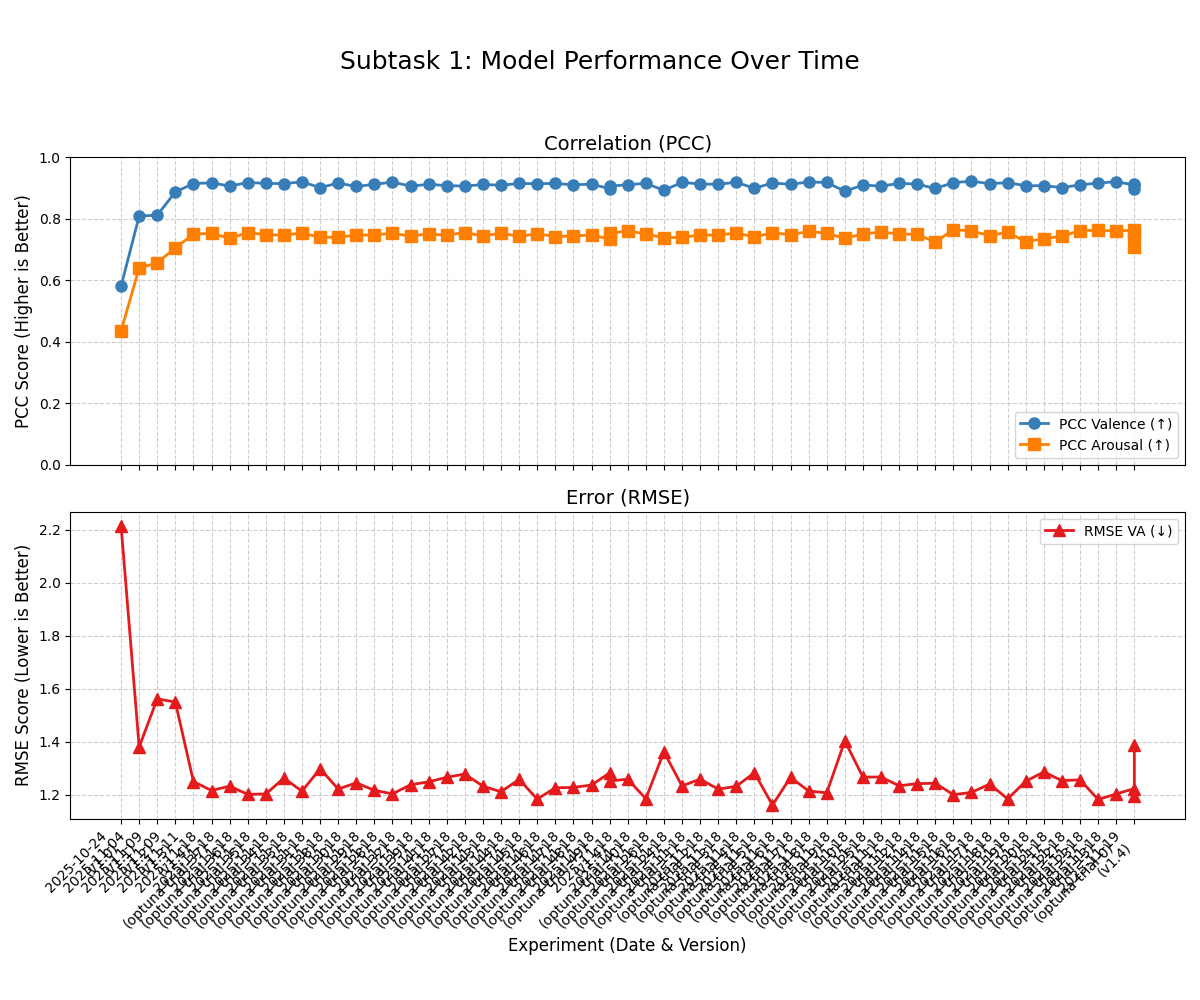
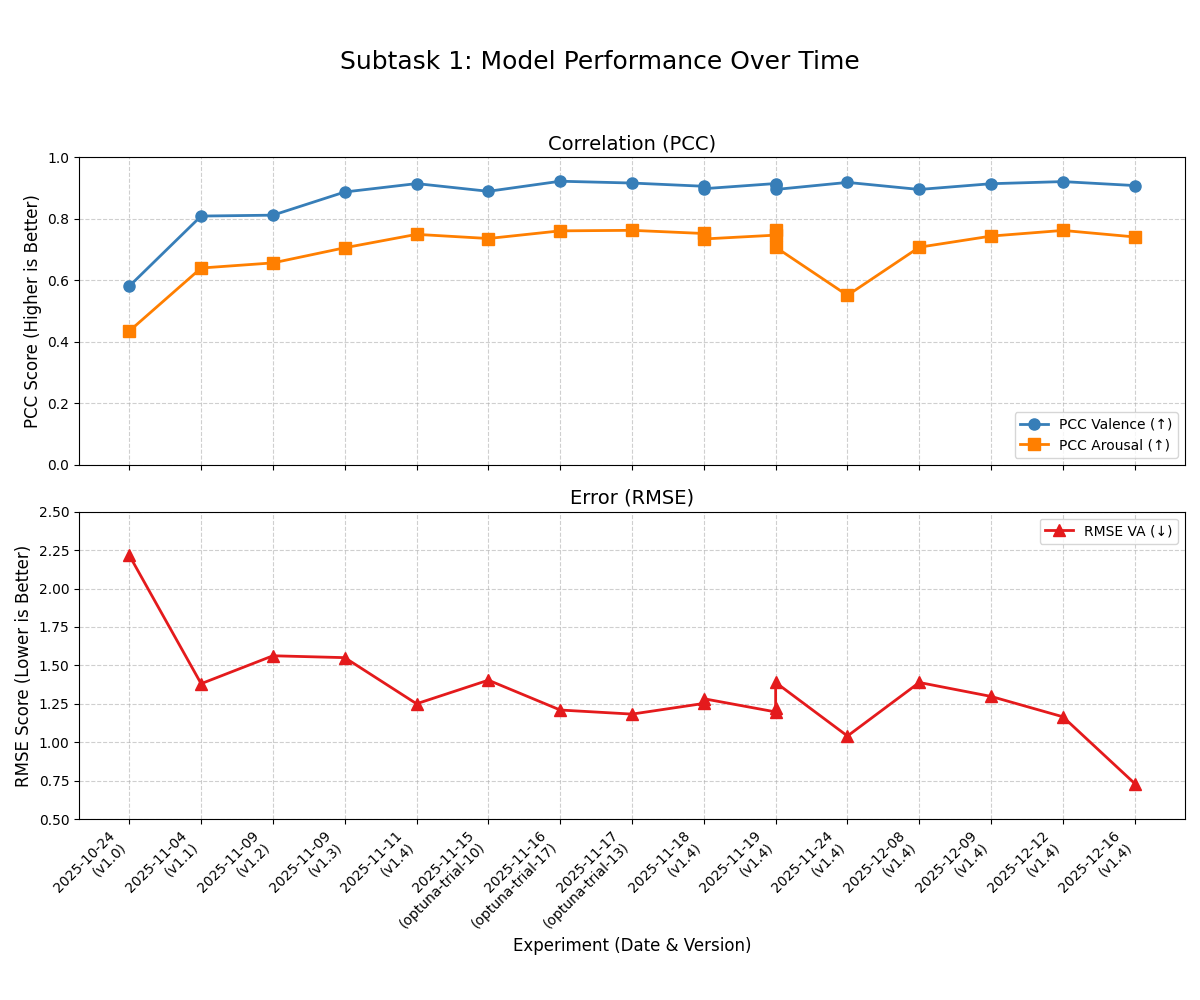
csv cleanup

diff --git a/scripts/Ensemble.py b/scripts/Ensemble.py
@@ -4,22 +4,19 @@ import numpy as np
 
 # --- CONFIGURATION ---
 PREDICTION_FILES = [
-    "predictions/subtask_1/pred_eng_laptop_1.jsonl",
-    "predictions/subtask_1/pred_eng_laptop_25.jsonl",
-    "predictions/subtask_1/pred_eng_laptop_42.jsonl",
-    "predictions/subtask_1/pred_eng_laptop_99.jsonl",
-    "predictions/subtask_1/pred_eng_laptop_123.jsonl"
+    "../outputs/subtask_1/predictions/pred_eng_laptop_1.jsonl",
+    "../outputs/subtask_1/predictions/pred_eng_laptop_42.jsonl",
+    "../outputs/subtask_1/predictions/pred_eng_laptop_100.jsonl"
 ]
 
 OUTPUT_FILE = "../outputs/subtask_1/predictions/pred_ensemble_final.jsonl"
 
 
 def load_predictions(filepath):
-    """Loads predictions from a JSONL file."""
     preds = {}
     try:
         if not os.path.exists(filepath):
-            print(f"❌ File not found: {filepath}")
+            print(f"File not found: {filepath}")
             return None
 
         with open(filepath, 'r', encoding='utf-8') as f:
@@ -29,7 +26,7 @@ def load_predictions(filepath):
         print(f"✅ Loaded {len(preds)} predictions from: {filepath}")
         return preds
     except Exception as e:
-        print(f"❌ Error reading {filepath}: {e}")
+        print(f"Error reading {filepath}: {e}")
         return None
 
 

diff --git a/src/subtask_1/config.py b/src/subtask_1/config.py
@@ -11,6 +11,7 @@ MODEL_NAME = "roberta-base"
 MODEL_VERSION_ID = "v1.4"
 
 # Training settings
+SEED = 100
 LEARNING_RATE = 1.1796630496108734e-05
 EPOCHS = 20
 BATCH_SIZE = 32
@@ -28,8 +29,10 @@ TRACK = "track_a"
 
 # Data file Path Constructor
 DATA_DIR = os.path.join(PROJECT_ROOT, DATA_ROOT, TRACK, SUBTASK, LANG)
+CSV_DIR = os.path.join(PROJECT_ROOT, "outputs/subtask_1/logs/results.csv")
 TRAIN_FILE = os.path.join(DATA_DIR, f"{LANG}_{DOMAIN}_train_alltasks.jsonl")
 PREDICT_FILE = os.path.join(DATA_DIR, f"{LANG}_{DOMAIN}_dev_{TASK}.jsonl")
+FIGURE_DIR = os.path.join(PROJECT_ROOT, "outputs/subtask_1/figures")
 
 # Output settings
 MODEL_SAVE_DIR = os.path.join("outputs", "subtask_1", "models")
@@ -39,4 +42,7 @@ PREDICTION_DIR = os.path.join("outputs", "subtask_1", "predictions")
 PREDICTION_FILE = os.path.join(PREDICTION_DIR, f"pred_{LANG}_{DOMAIN}.jsonl")
 TEST_FILE = os.path.join(PREDICTION_DIR, f"test_{LANG}_{DOMAIN}.jsonl")
 
-MODEL_SAVE_PATH = os.path.join(PROJECT_ROOT, MODEL_SAVE_DIR, SUBTASK, "best_model.pt")
+MODEL_SAVE_PATH = os.path.join(PROJECT_ROOT, MODEL_SAVE_DIR, SUBTASK, "best_model_laptop.pt")
+
+if __name__ == '__main__':
+    print(CONFIG_DIR + "\n" + PROJECT_ROOT + "\n" + DATA_DIR + "\n" + CSV_DIR)

diff --git a/scripts/vis/generate_results_plot.py b/scripts/vis/generate_results_plot.py
@@ -2,16 +2,14 @@ import pandas as pd
 import matplotlib.pyplot as plt
 import os
 
-from src.subtask_1.config import DATA_DIR, PREDICTION_DIR
-
-CSV_FILE = os.path.join(DATA_DIR, "results.csv")
-OUTPUT_FILE = os.path.join(PREDICTION_DIR, "performance_plot.png")
+from src.subtask_1.config import CSV_DIR, FIGURE_DIR
+OUTPUT_FILE = os.path.join(FIGURE_DIR, "performance_plot.png")
 
 def generate_plot():
     try:
-        data = pd.read_csv(CSV_FILE)
+        data = pd.read_csv(CSV_DIR)
     except FileNotFoundError:
-        print(f"Error: Could not find results file at {CSV_FILE}")
+        print(f"Error: Could not find results file at {CSV_DIR}")
         return
 
     data['date'] = pd.to_datetime(data['date'])
@@ -32,6 +30,7 @@ def generate_plot():
 
     ax2.plot(x_labels, data['rmse_va'], '^-', label='RMSE VA (↓)', color='#e41a1c', linewidth=2, markersize=8)
     ax2.set_ylabel('RMSE Score (Lower is Better)', fontsize=12)
+    ax2.set_ylim(0.5, 2.5)
     ax2.legend(loc='upper right', fontsize=10)
     ax2.grid(True, linestyle='--', alpha=0.6)
     ax2.set_title('Error (RMSE)', fontsize=14)

diff --git a/src/subtask_1/train_subtask1.py b/src/subtask_1/train_subtask1.py
@@ -22,7 +22,7 @@ from scripts.vis.generate_results_plot import generate_plot
 
 def main():
     version = 3
-    utils.set_seed(42)
+    utils.set_seed(config.SEED)
 
     print(f"Using model: {config.MODEL_NAME}")
     print(f"Loading tokenizer...")
@@ -43,7 +43,7 @@ def main():
     train_df = utils.jsonl_to_df(train_raw)
     predict_df = utils.jsonl_to_df(predict_raw)
 
-    train_df, dev_df = train_test_split(train_df, test_size=0.1, random_state=42)
+    train_df, dev_df = train_test_split(train_df, test_size=0.1, random_state=config.SEED)
     print(f"Data loaded: {len(train_df)} train, {len(dev_df)} dev, {len(predict_df)} predict samples.")
 
     train_dataset = VADataset(train_df, tokenizer, max_len=config.MAX_LEN, num_bins=config.NUM_BINS, sigma=config.SIGMA)

diff --git a/src/subtask_1/model.py b/src/subtask_1/model.py
@@ -4,7 +4,7 @@ from transformers import AutoModel
 from tqdm import tqdm
 
 class TransformerVARegressor(nn.Module):
-    def __init__(self, model_name: str, dropout: float = 0.1, num_bins: int = 81):
+    def __init__(self, model_name: str, num_bins: int, dropout: float = 0.1):
         super().__init__()
         self.backbone = AutoModel.from_pretrained(model_name)
         self.dropout = nn.Dropout(dropout)

diff --git a/src/subtask_2/train_subtask2_ICL.py b/src/subtask_2/train_subtask2_ICL.py
@@ -2,7 +2,7 @@
 python src/subtask_2/task2_icl_regression.py \
   --input_file /data/eng_restaurant_train_alltasks.jsonl \
   --output_file data/subtask2/preds_task2.jsonl \
-  --reg_checkpoint subtask1/best_model.pt \
+  --reg_checkpoint subtask1/best_model_laptop_42.pt \
   --gen_model google/flan-t5-large \
   --reg_model_name bert-base-multilingual-cased \
   --device cuda \

diff --git a/legacy/train_subtask1_alt.py b/legacy/train_subtask1_alt.py
@@ -118,7 +118,7 @@ def main():
 
     best_val_loss = float("inf")
     epochs_no_improve = 0
-    checkpoint_path = os.path.join(args.output_dir, "best_model.pt")
+    checkpoint_path = os.path.join(args.output_dir, "best_model_laptop_42.pt")
 
     # -----------------------------------------------------------------
     # Training loop

diff --git a/scripts/analysis/optimize.py b/scripts/analysis/optimize.py
@@ -46,7 +46,7 @@ if __name__ == "__main__":
     print("Starting Optuna Hyperparameter Optimization...")
 
     sampler = optuna.samplers.TPESampler(
-        seed=42,
+        seed=config.SEED,
         multivariate=True,
         group=True
     )
